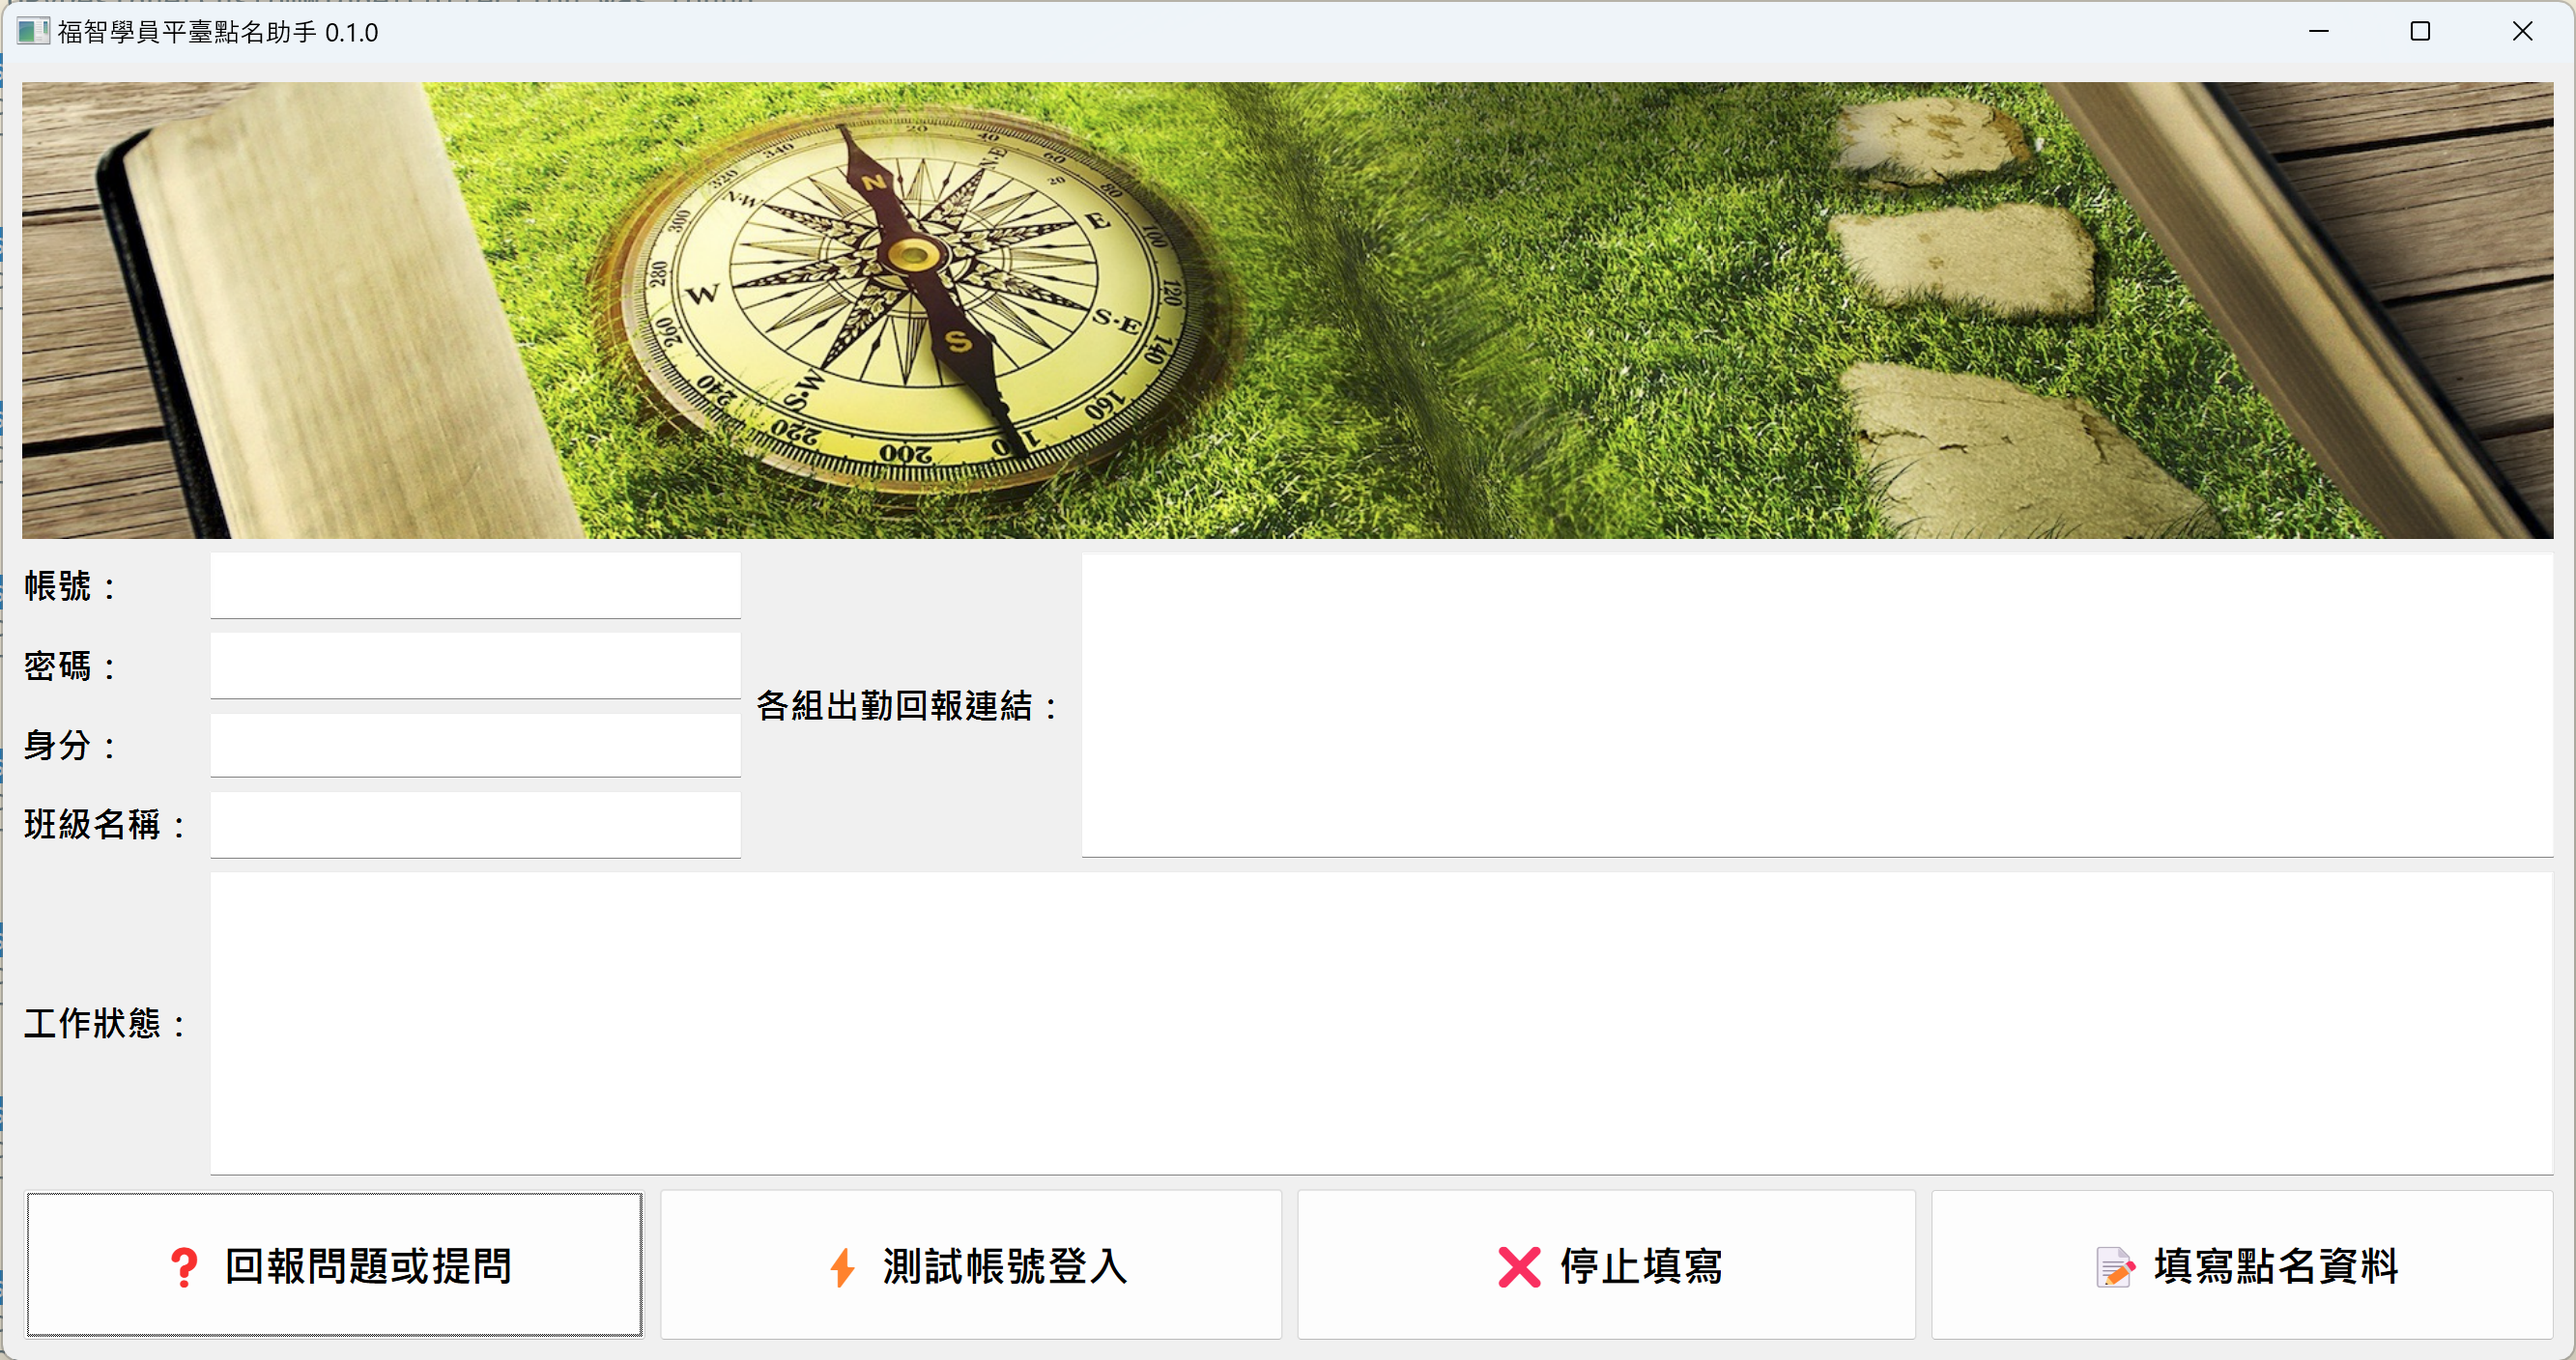
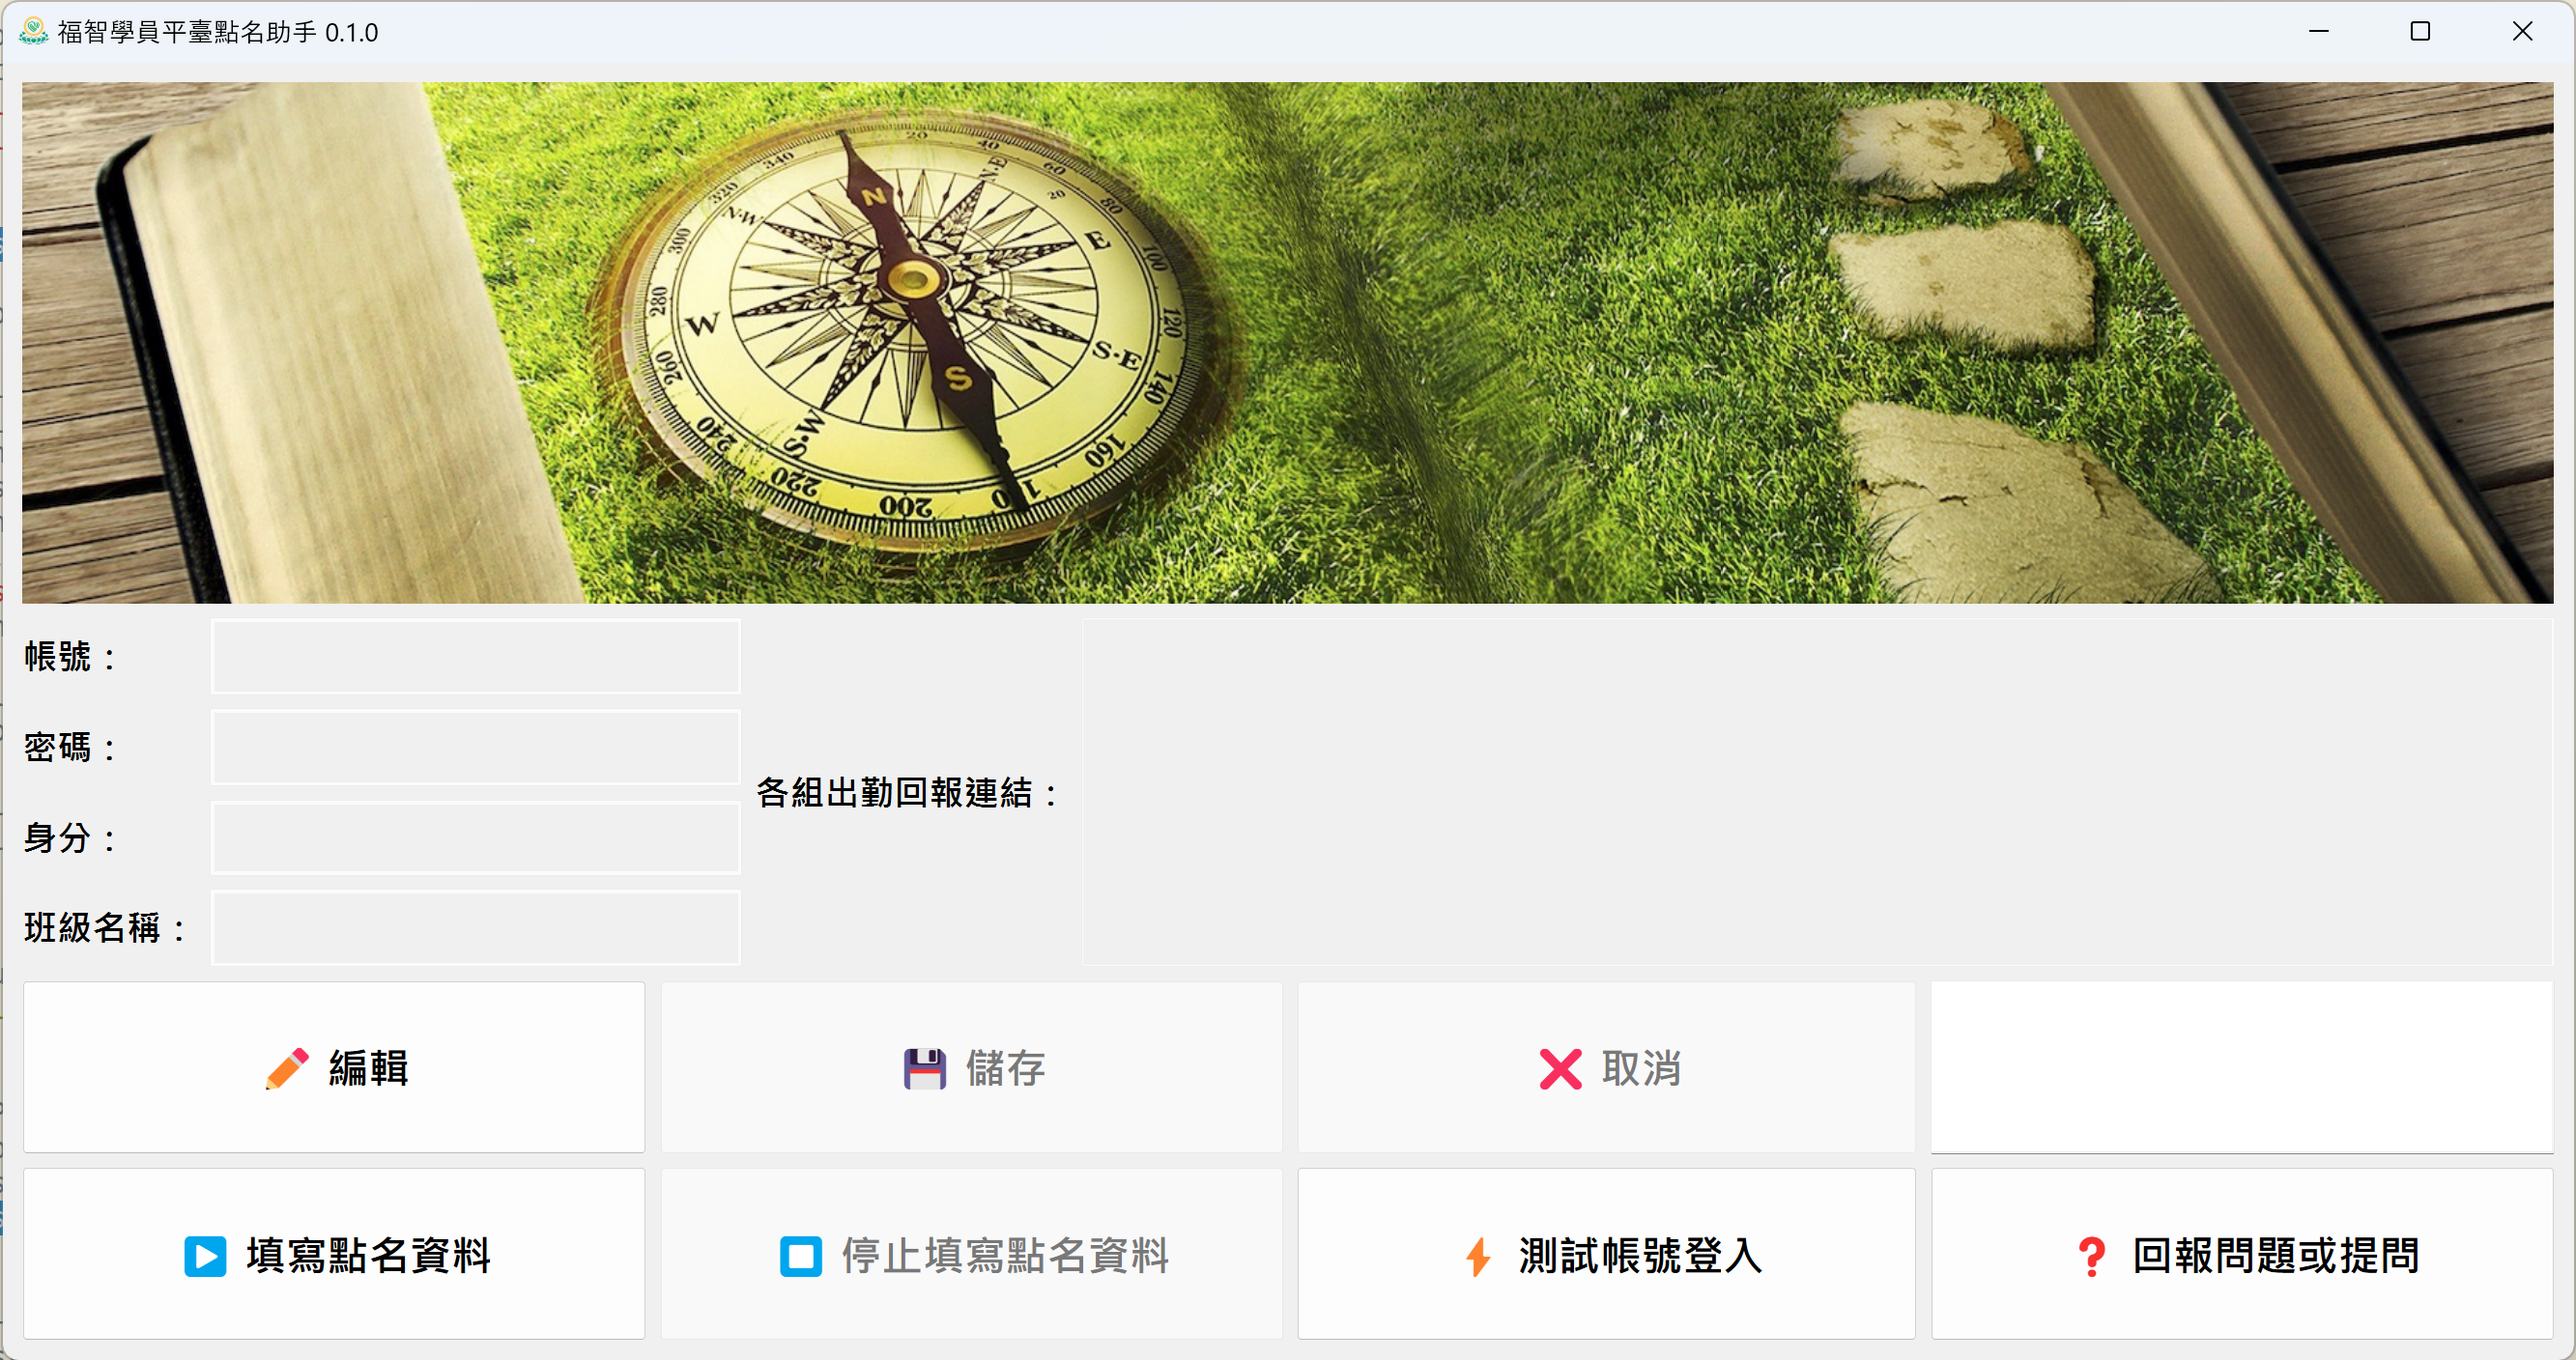
Support the edit logic in UI

diff --git a/packages/blisswisdom_roll_call_assistant_desktop/ui/main_window.py b/packages/blisswisdom_roll_call_assistant_desktop/ui/main_window.py
@@ -5,16 +5,41 @@ import pathlib
 
 import PySide6.QtXml  # This is only for PyInstaller to process properly
 from PySide6.QtGui import QCloseEvent, QIcon, QPaintEvent, QPixmap
-from PySide6.QtWidgets import (
-    QMainWindow)
+from PySide6.QtWidgets import QLabel, QLineEdit, QMainWindow, QPlainTextEdit, QPushButton
 
 import blisswisdom_roll_call_assistant_sdk as sdk
 
 
 class QMainWindowExt(QMainWindow):
-    def paintEvent(self, event: QPaintEvent):
+    def paintEvent(self, event: QPaintEvent) -> None:
         super().paintEvent(event)
         self.setWindowTitle(f'{sdk.PROG_NAME} {sdk.VERSION}')
+
+        self.banner_label: QLabel = getattr(self, 'banner_label')
+
+        self.account_line_edit: QLineEdit = getattr(self, 'account_line_edit')
+        self.password_line_edit: QLineEdit = getattr(self, 'password_line_edit')
+        self.character_line_edit: QLineEdit = getattr(self, 'character_line_edit')
+        self.class_line_edit: QLineEdit = getattr(self, 'class_line_edit')
+        self.attendance_urls_plain_text_edit: QPlainTextEdit = getattr(self, 'attendance_urls_plain_text_edit')
+        self.status_plain_text_edit: QPlainTextEdit = getattr(self, 'status_plain_text_edit')
+
+        self.edit_push_button: QPushButton = getattr(self, 'edit_push_button')
+        self.edit_push_button.clicked.connect(self.on_edit_push_button_clicked)
+
+        self.save_push_button: QPushButton = getattr(self, 'save_push_button')
+        self.save_push_button.clicked.connect(self.on_save_push_button_clicked)
+
+        self.cancel_push_button: QPushButton = getattr(self, 'cancel_push_button')
+        self.cancel_push_button.clicked.connect(self.on_cancel_push_button_clicked)
+
+        self.start_push_button: QPushButton = getattr(self, 'start_push_button')
+
+        self.stop_push_button: QPushButton = getattr(self, 'stop_push_button')
+
+        self.log_in_push_button: QPushButton = getattr(self, 'log_in_push_button')
+
+        self.help_push_button: QPushButton = getattr(self, 'help_push_button')
 
         app_icon: pathlib.Path
         with importlib.resources.path(__package__, 'icon.ico') as app_icon:
@@ -26,3 +51,24 @@ class QMainWindowExt(QMainWindow):
 
     def closeEvent(self, event: QCloseEvent) -> None:
         super().closeEvent(event)
+
+    def set_edit_enabled(self, enabled: bool) -> None:
+        self.account_line_edit.setEnabled(enabled)
+        self.password_line_edit.setEnabled(enabled)
+        self.character_line_edit.setEnabled(enabled)
+        self.class_line_edit.setEnabled(enabled)
+        self.attendance_urls_plain_text_edit.setEnabled(enabled)
+        self.edit_push_button.setEnabled(not enabled)
+        self.save_push_button.setEnabled(enabled)
+        self.cancel_push_button.setEnabled(enabled)
+        self.start_push_button.setEnabled(not enabled)
+        self.log_in_push_button.setEnabled(not enabled)
+
+    def on_edit_push_button_clicked(self) -> None:
+        self.set_edit_enabled(True)
+
+    def on_save_push_button_clicked(self) -> None:
+        self.set_edit_enabled(False)
+
+    def on_cancel_push_button_clicked(self) -> None:
+        self.set_edit_enabled(False)
